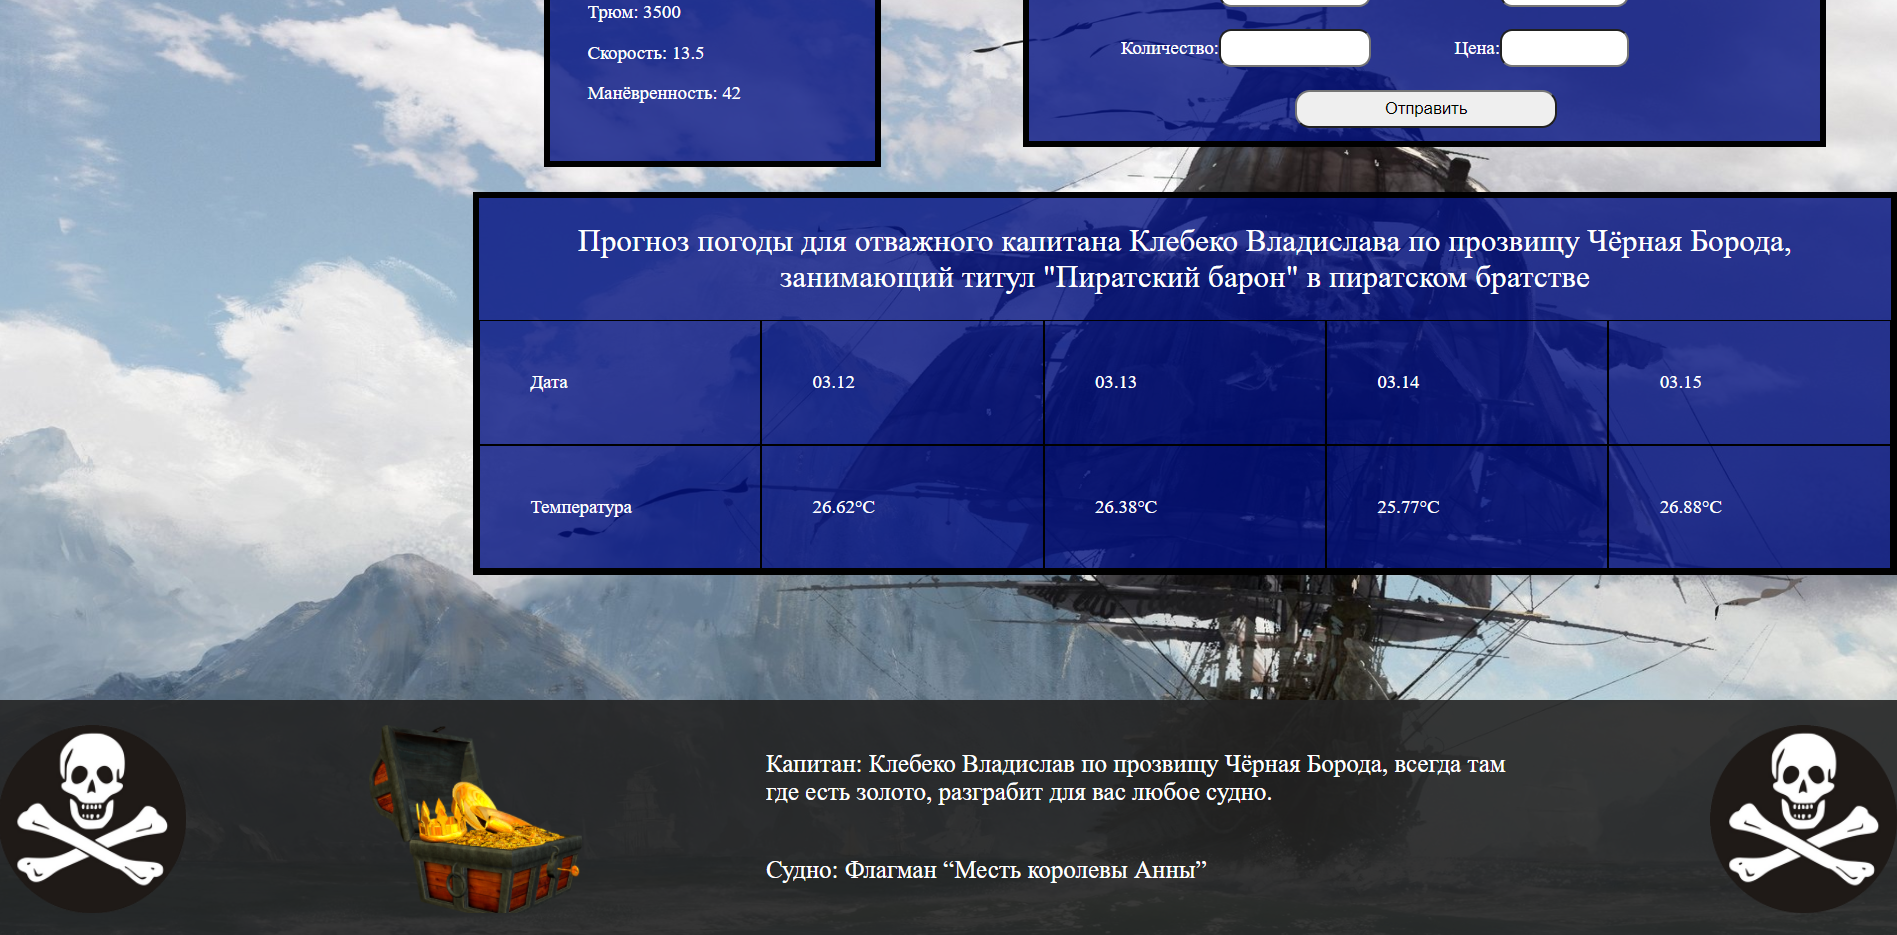
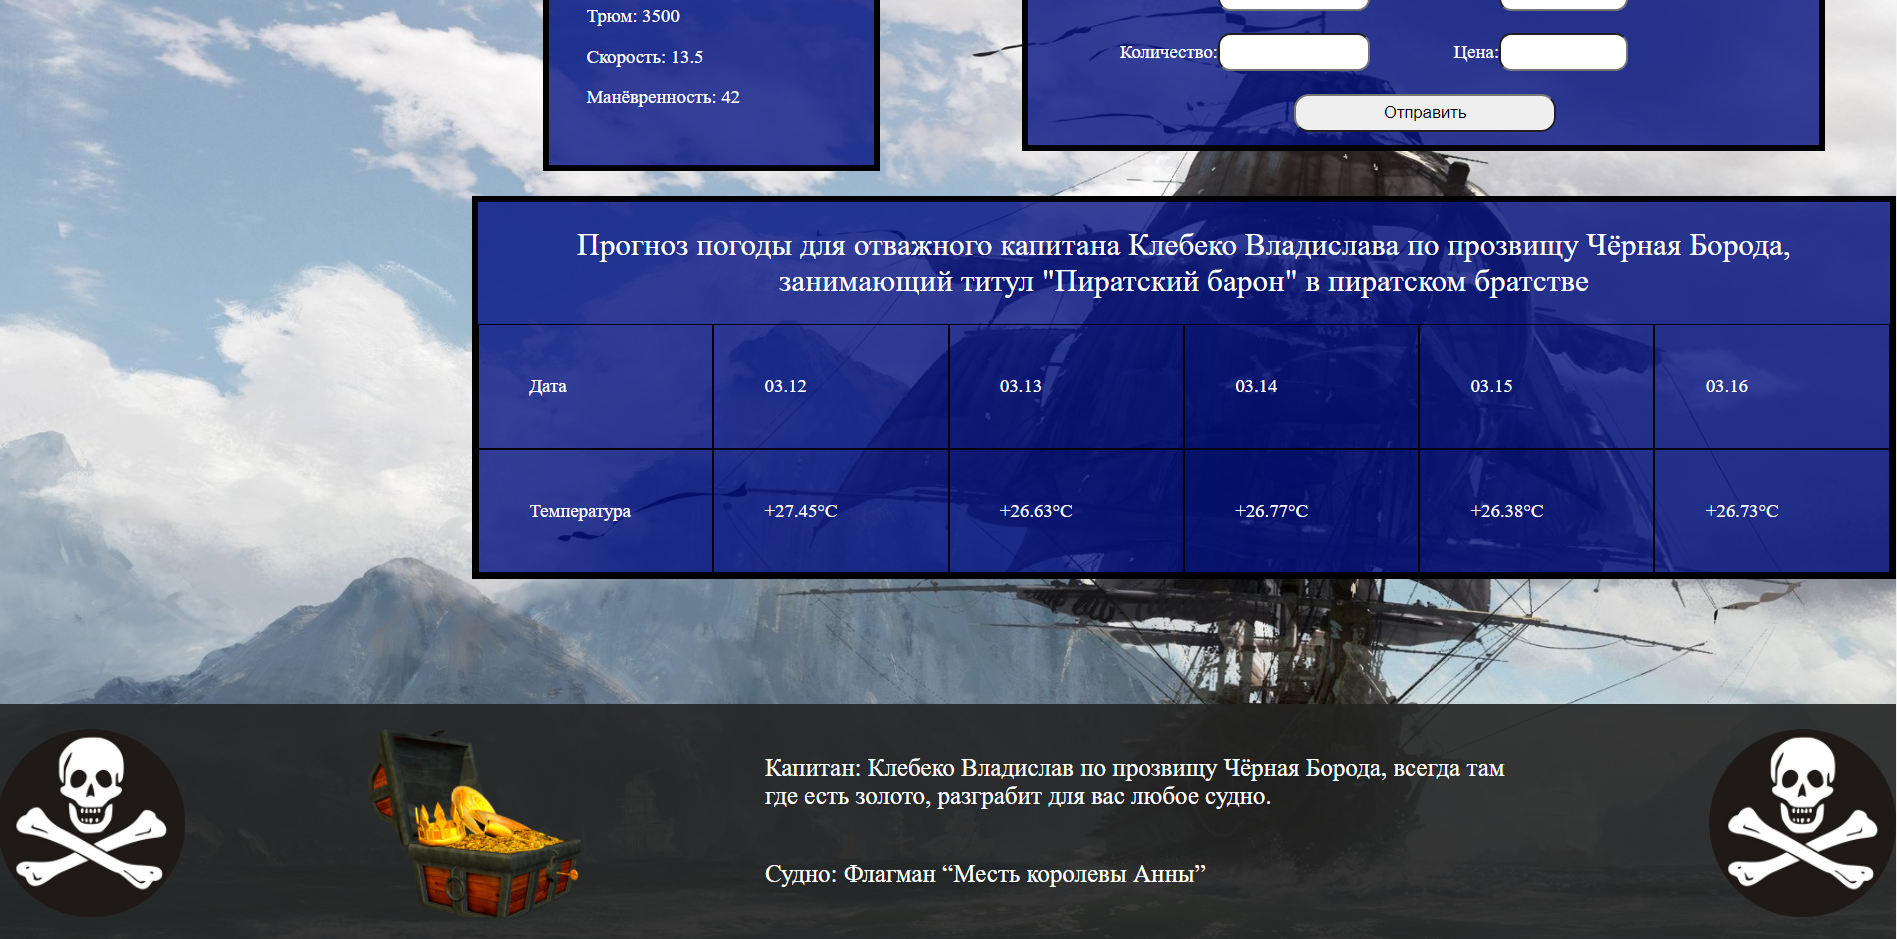
Code readability has been improved.

diff --git a/src/index.js b/src/index.js
@@ -1,23 +1,6 @@
 // import './main.css';
 // import styles from './index.module.css';
 // import "./sass/main-second.scss";
-//
-// import './0.jpg';
-// import './1.jpg';
-// import './2.jpg';
-// import './3.jpg';
-// import './4.jpg';
-// import './5.jpg';
-// import './6.jpg';
-// import './7.jpg';
-// import './8.jpg';
-// import './9.jpg';
-// import './10.jpg';
-// import './11.jpg';
-// import './12.jpg';
-// import './13.jpg';
-
-
 
 // async function print() {
 //   // Here we are using dynamic import
@@ -306,6 +289,11 @@ const maxPrice = document.getElementById("max-price-input");
 const minPrice = document.getElementById("min-price-input");
 const minShipHull = document.getElementById("min-ship-hull-input");
 const maxShipHull = document.getElementById("max-ship-hull-input");
+
+const tableTemperature = document.getElementById("my-ship-weather-table-temperature");
+const tableDate = document.getElementById("my-ship-weather-table-date");
+
+const url = 'https://api.tomorrow.io/v4/timelines?location=-12.561429,43.450748&fields=temperature&timesteps=1h&units=metric&apikey=HAfCfUqmVM33AznA9lhooAK162dvK2ke'
 
 let forTest = false;
 
@@ -727,16 +715,6 @@ function sortByMaxShipHull(arr) {
   return lengthsMaxHull;
 }
 
-
-const tableTemperature = document.getElementById("my-ship-weather-table-temperature");
-const tableDate = document.getElementById("my-ship-weather-table-date");
-
-
-// global.fetch = require("node-fetch");
-
-const url = 'https://api.tomorrow.io/v4/timelines?location=-12.561429,43.450748&fields=temperature&timesteps=1h&units=metric&apikey=HAfCfUqmVM33AznA9lhooAK162dvK2ke'
-
-
 fetch(url)
   .then((response) => {
     return response.json();
@@ -744,8 +722,8 @@ fetch(url)
   .then((data) => {
 
     let today = new Date();
-
     let test;
+
     for(let i = 0; i < data.data.timelines[0].intervals.length; i++) {
 
       test = new Date(data.data.timelines[0].intervals[i].startTime)
@@ -754,6 +732,7 @@ fetch(url)
 
         let a =`${test.getMonth()}.${test.getDate()}`;
         let b = data.data.timelines[0].intervals[i].values.temperature;
+
         if(a < 10){
           a =`0${test.getMonth()}.${test.getDate()}`;
         }
@@ -761,7 +740,7 @@ fetch(url)
         if(b < 0) {
           b = `-${data.data.timelines[0].intervals[i].values.temperature}°C`;
         } else {
-          b = `${data.data.timelines[0].intervals[i].values.temperature}°C`;
+          b = `+${data.data.timelines[0].intervals[i].values.temperature}°C`;
         }
 
         addColumn(tableTemperature,b);
@@ -772,9 +751,6 @@ fetch(url)
     }
 
   });
-
-
-
 
 function addColumn(table,text){
 
